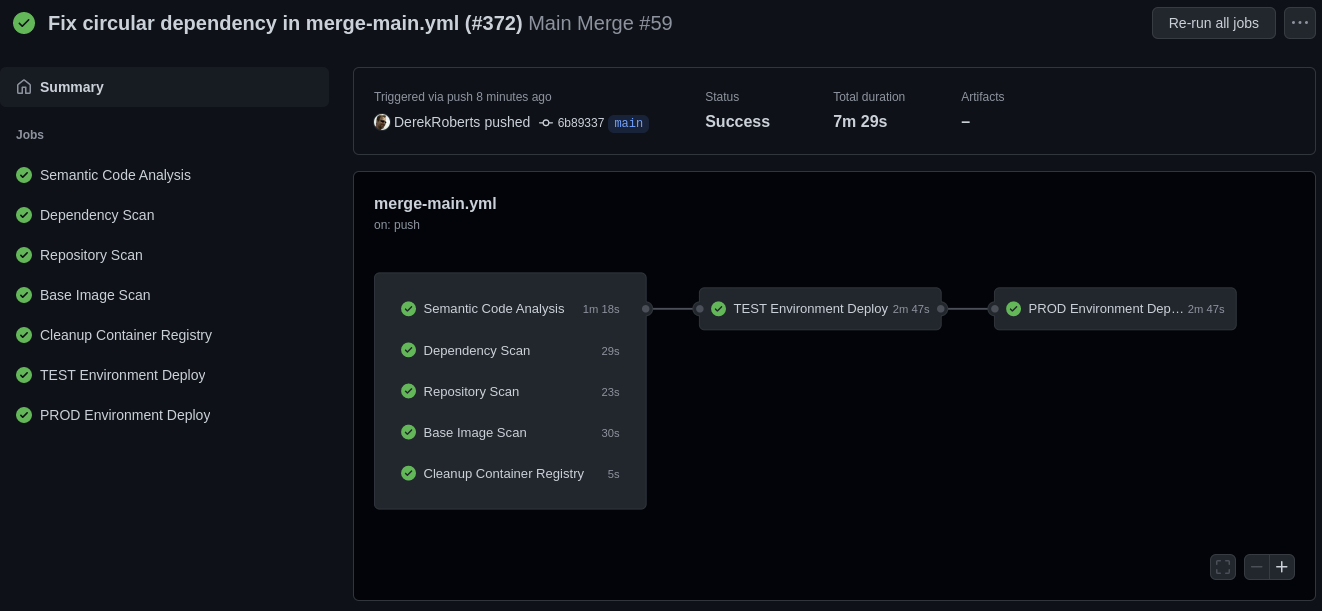
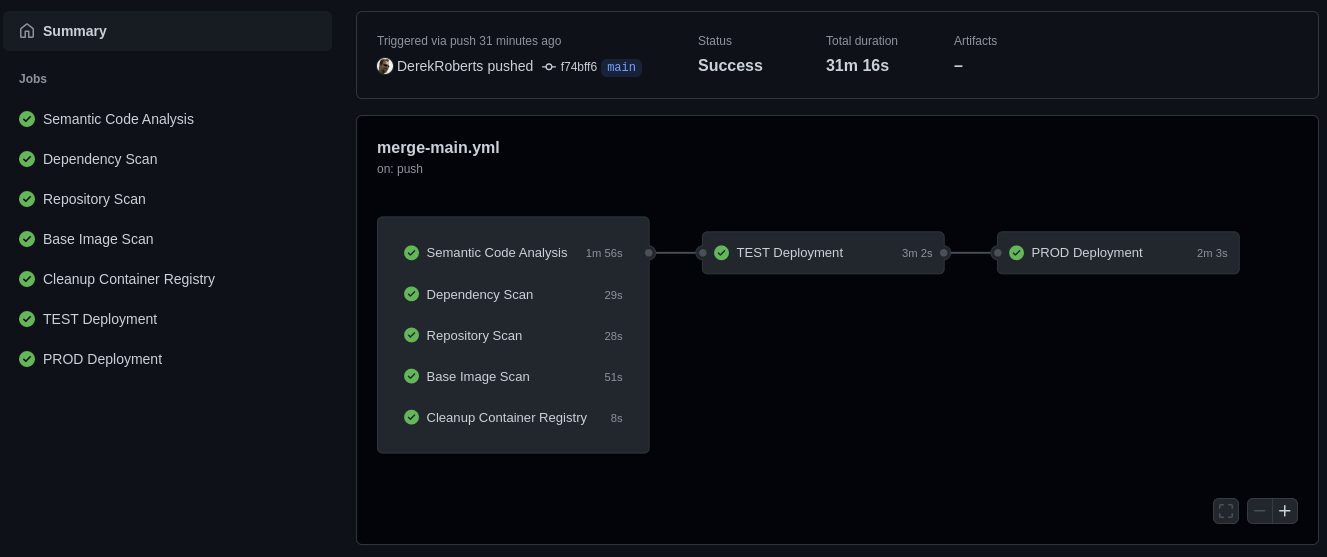
Update readme graphics

diff --git a/README.md b/README.md
@@ -150,8 +150,6 @@ Closing and reopening a pull request is usually done to trigger OpenShift artifa
 
 ![Pull Request Close/Merge](.github/graphics/pr-cleanup.png)
 
-<!-- TODO: update pic w/ corrected name -->
-
 If this closure was triggered by a merge to the main branch it will trigger the following workflow.
 
 ### 3: Pull Request Main Merge Pipeline
